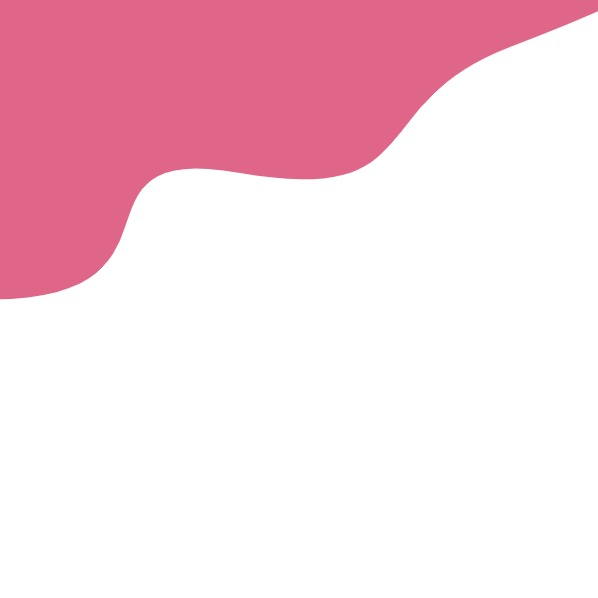
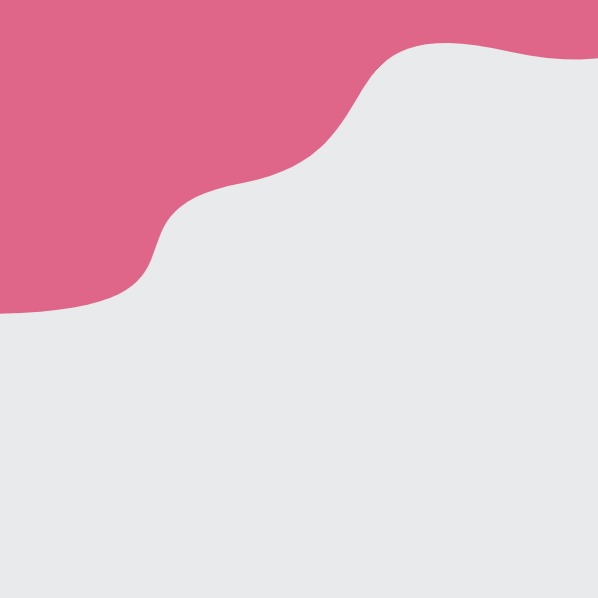
Women section add motion div

Changed region(s): [[0.0, 0.0, 1.0, 0.5418]]

diff --git a/src/Pages/Women.tsx b/src/Pages/Women.tsx
@@ -1,31 +1,61 @@
-import { FC } from "react";
+import { FC, useEffect } from "react";
 import { Link } from "react-router-dom";
 import KeyboardDoubleArrowRightIcon from "@mui/icons-material/KeyboardDoubleArrowRight";
 import { animateScroll as scroll } from "react-scroll";
+import { motion } from "framer-motion";
+import { useInView } from "react-intersection-observer";
 
 const Women: FC = () => {
   const handleClick = () => {
     scroll.scrollToTop();
   };
+
+  const [inViewRef, inView] = useInView({
+    triggerOnce: true,
+    threshold: 1,
+  });
+  useEffect(() => {
+    if (inView) {
+      console.log("true");
+    } else {
+      console.log("false");
+    }
+  }, [inView]);
   return (
-    <section className="pink-background flex flex-col items-center lg:items-start">
-      <h2 className="pt-72 lg:pt-52 pb-12 text-center w-3/4 lg:w-1/2 text-base sm:text-2xl lg:ml-32 lg:text-4xl text-purple-900">
+    <section className="pink-background flex flex-col items-center lg:items-start bg-[#E9EAEB]">
+      <h2 className="pt-80 lg:pt-60 pb-12 text-center w-3/4 lg:w-1/2 text-2xl sm:text-3xl lg:ml-32 lg:text-4xl text-purple-900">
         Dla pań proponuję paletę kolorów, która jest bardziej jasna i pełna
         życia. Oferuję rowery w odcieniach, które podkreślają energię i
         indywidualność kobiet.
       </h2>
-      <img
-        src="/public/8.jpg"
-        className="mx-auto lg:ml-auto lg:mr-52 xl:mr-72 rounded-lg w-[350px] max-w-[90vw]"
-        alt="Dziewczyna na rowerze"
-      />
+      <motion.div
+        initial={{
+          opacity: 0,
+          scale: 0,
+        }}
+        animate={{
+          opacity: inView ? 1 : 0,
+          scale: inView ? 1 : 0,
+        }}
+        transition={{
+          duration: 2,
+        }}
+        ref={inViewRef}
+        className="mx-auto lg:ml-auto lg:mr-52 xl:mr-72 w-[350px] max-w-[90vw]"
+      >
+        <img
+          src="/public/8.jpg"
+          className="rounded-lg"
+          alt="Dziewczyna na rowerze"
+        />
+      </motion.div>
       <h2 className="mt-12 text-center mx-auto text-base sm:text-2xl w-1/2 lg:text-4xl text-purple-900">
         Jeżeli jesteś zainteresowana tym jak możemy dopasować rower do Twojego
         stylu zapraszam do kontaktu.
       </h2>
       <Link
-        className=" text-center mx-auto my-6 bg-purple-900 text-black pr-6 pl-10 py-2 rounded-md text-2xl
-             hover:text-white focus:text-white  focus:outline-none personalize-link"
+        className=" text-center mx-auto my-6 bg-purple-900 text-white	pr-6 pl-10 py-2 rounded-md text-2xl
+             hover:text-[#BEF50A] focus:text-[#BEF50A]  focus:outline-none personalize-link"
         to="/kontakt"
         onClick={handleClick}
       >

diff --git a/src/components/Home.tsx b/src/components/Home.tsx
@@ -1,62 +1,6 @@
-import { useEffect, useState } from "react";
-import ImageGallery from "react-image-gallery";
-import { Images, ImageGalleryProps } from "../Types/Gallery";
 import KeyboardArrowDownIcon from "@mui/icons-material/KeyboardArrowDown";
 
 const Home = ({ onClick }) => {
-  const images: Images[] = [
-    {
-      original: "/1.jpg",
-    },
-    {
-      original: "/2.jpg",
-    },
-    {
-      original: "/3.jpg",
-    },
-    {
-      original: "/4.jpg",
-    },
-    {
-      original: "/5.jpg",
-    },
-    {
-      original: "/6.jpg",
-    },
-    {
-      original: "/7.jpg",
-    },
-    {
-      original: "/8.jpg",
-    },
-  ];
-  const [playGallery, setPlayGallery] = useState<boolean>(true);
-  const imageGalleryProps: ImageGalleryProps = {
-    items: images,
-    showThumbnails: false,
-    showFullscreenButton: false,
-    showPlayButton: false,
-    showBullets: false,
-    showIndex: false,
-    showNav: false,
-    autoPlay: playGallery,
-    additionalClass: "main-gallery",
-  };
-  useEffect(() => {
-    const handleHashChange = () => {
-      const hash = window.location.hash;
-      if (hash === "#home") {
-        setPlayGallery(true);
-      } else {
-        setPlayGallery(false);
-      }
-    };
-    window.addEventListener("hashchange", handleHashChange);
-    handleHashChange();
-    return () => {
-      window.removeEventListener("hashchange", handleHashChange);
-    };
-  }, []);
   return (
     <section
       id="home"
@@ -66,7 +10,6 @@ const Home = ({ onClick }) => {
         Witaj w miejscu, gdzie twoje marzenia rowerowe stają się
         rzeczywistością!
       </h1>
-      <ImageGallery {...imageGalleryProps} />
       <div
         className="double-scroll-arrows-container cursor-pointer absolute bottom-[10%] md:bottom-[5%] right-[10%]"
         onClick={onClick}
